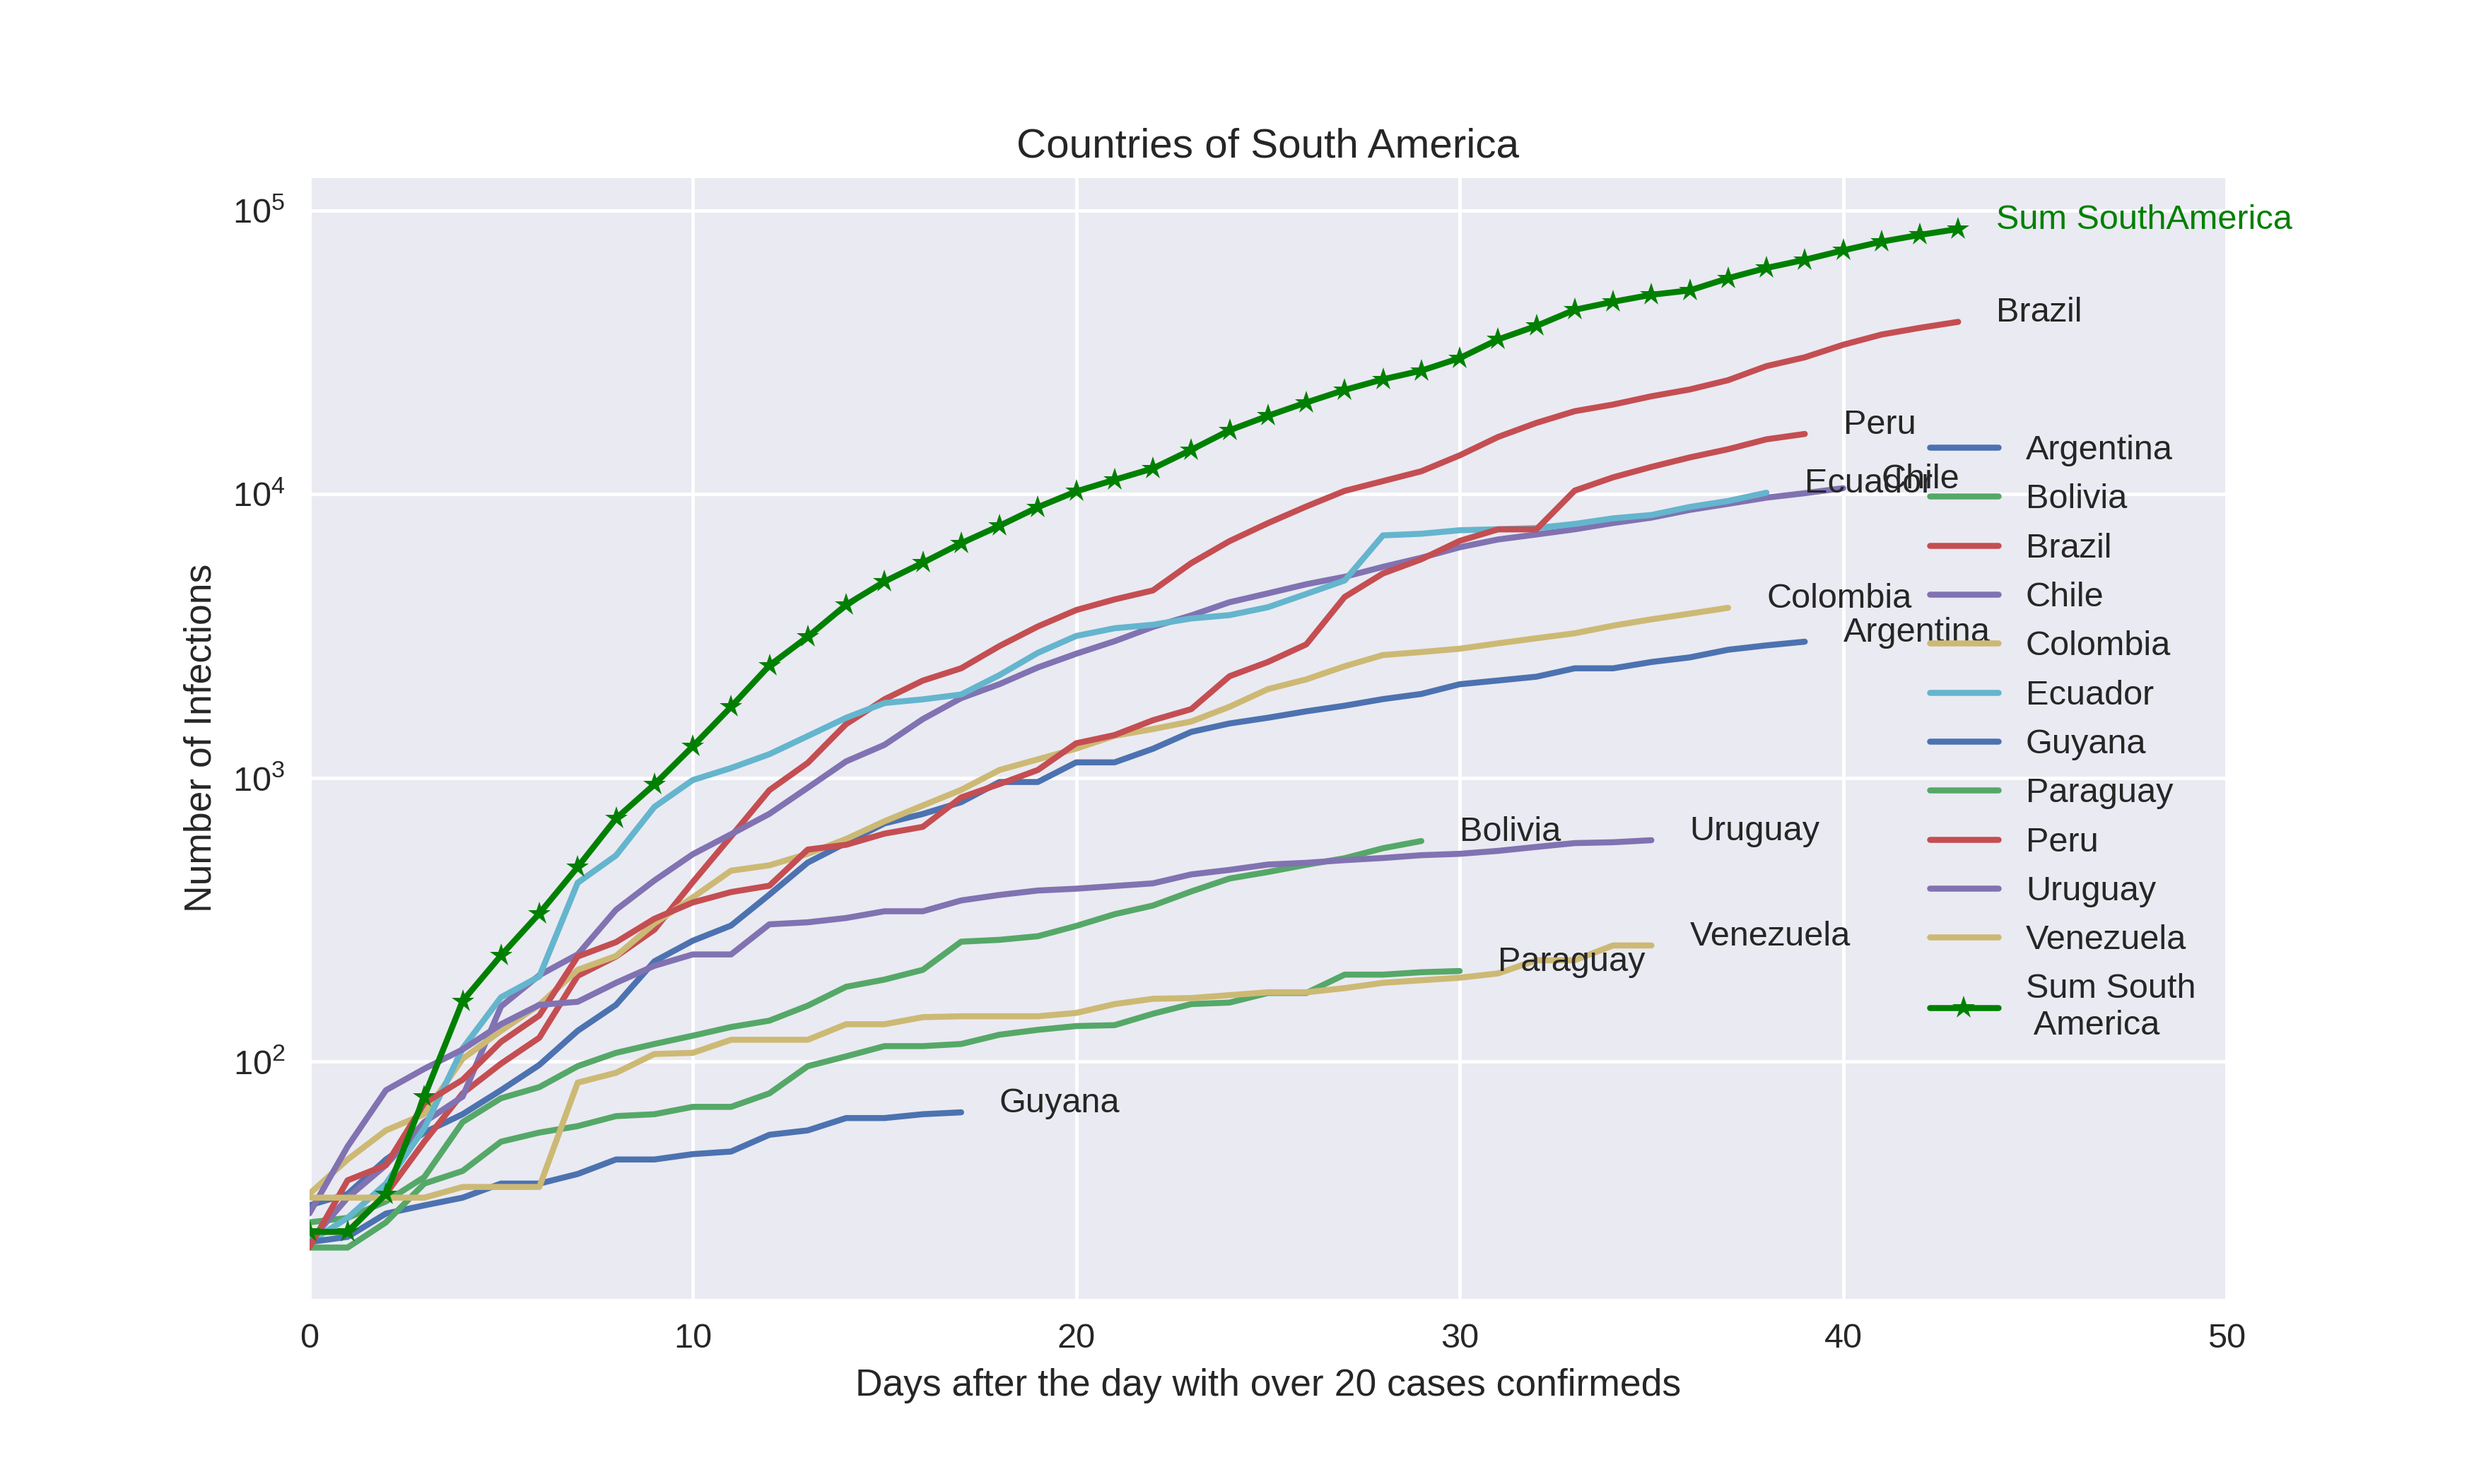
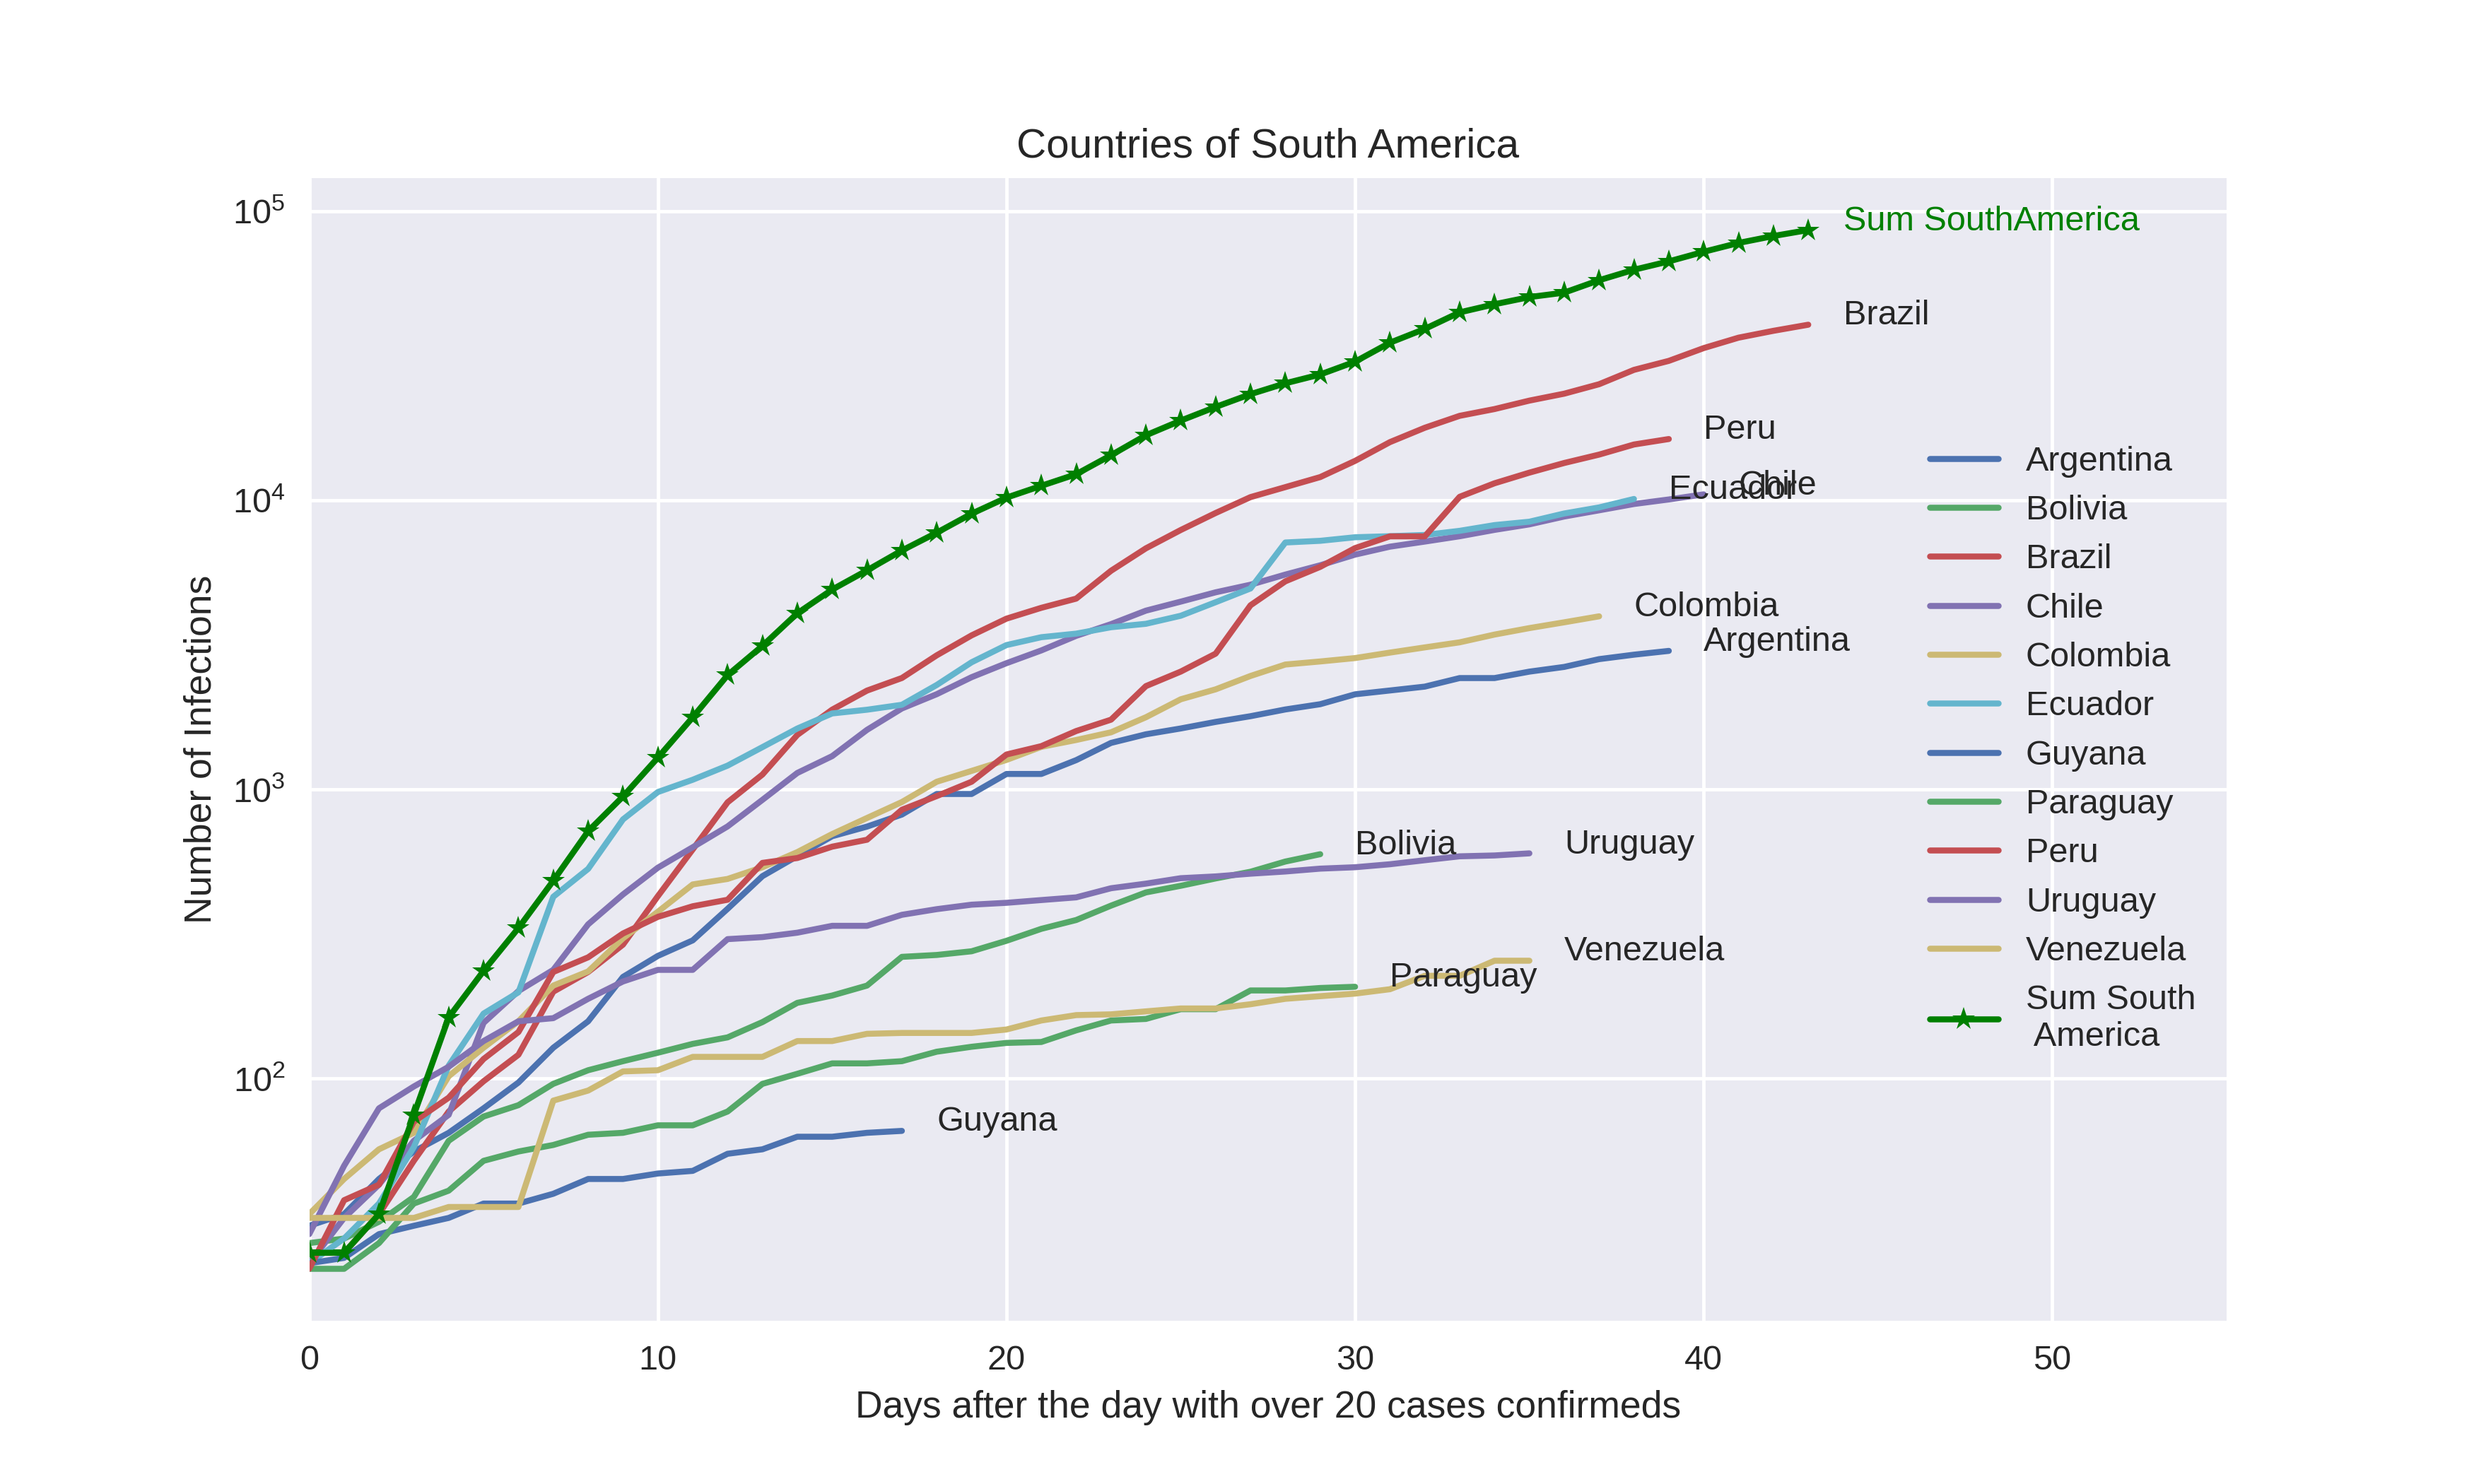
update new files

diff --git a/Corona-Brazil.py b/Corona-Brazil.py
@@ -80,6 +80,10 @@ dprevisto = (today-case1.date()).days
 hojebr = (func(dprevisto, *poptbr))
 
 # Graphic Brazil
+
+# Graphic Brazil
+
+# Graphic Brazil
 fig = plt.figure(figsize=[10,6])
 ax2 = plt.subplot()
 
@@ -109,7 +113,7 @@ sa = ['Argentina', 'Bolivia', 'Brazil', 'Chile', 'Colombia', 'Ecuador', 'Falklan
       'Guyana', 'Paraguay', 'Peru', 'Suriname', 'Uruguay', 'Venezuela']
 sa = sorted(sa)
 san = total_data[(total_data.location.isin(sa)) & (total_data["total_cases"] > 20. )]
-psum = san.groupby('date').total_deaths.sum()
+psum = san.groupby('date').total_cases.sum()
 
 
 ############################SA##############
@@ -121,15 +125,15 @@ ax = plt.subplot()
 for ii in sa:
     p = total_data[(total_data["location"] == ii) & (total_data["total_cases"] > 20. )]
     if len(p) > 0: 
-        ax.plot(p.total_deaths.values,label=ii)
-        ax.text(len(p),p.total_deaths.values.max(),ii)
+        ax.plot(p.total_cases.values,label=ii)
+        ax.text(len(p),p.total_cases.values.max(),ii)
 ax.plot(psum.values,'g*-',label = "Sum South\n America")
 ax.text(len(psum),psum.values.max(),"Sum SouthAmerica",color="g")
 ax.text(40,1,'update on '+str(datetime.now().date()))
 ax.set_yscale('log')
 ax.set_title("Countries of South America")
 ax.set_ylabel("Number of Infections")
-ax.set_xlim(0,50)
+ax.set_xlim(0,55)
 ax.set_xlabel('Days after the day with over 20 cases confirmeds')
 plt.legend(loc=5)
 # plt.show()
@@ -159,7 +163,7 @@ ax.text(40,20,'update on '+str(today))
 ax.set_yscale('log')
 ax.set_title("Countries bordering of Brazil")
 ax.set_ylabel("Number of Infections")
-ax.set_xlim(0,50)
+ax.set_xlim(0,55)
 ax.set_xlabel('Days after the day with over 20 cases confirmeds')
 plt.legend(loc=5)
 # plt.show()
